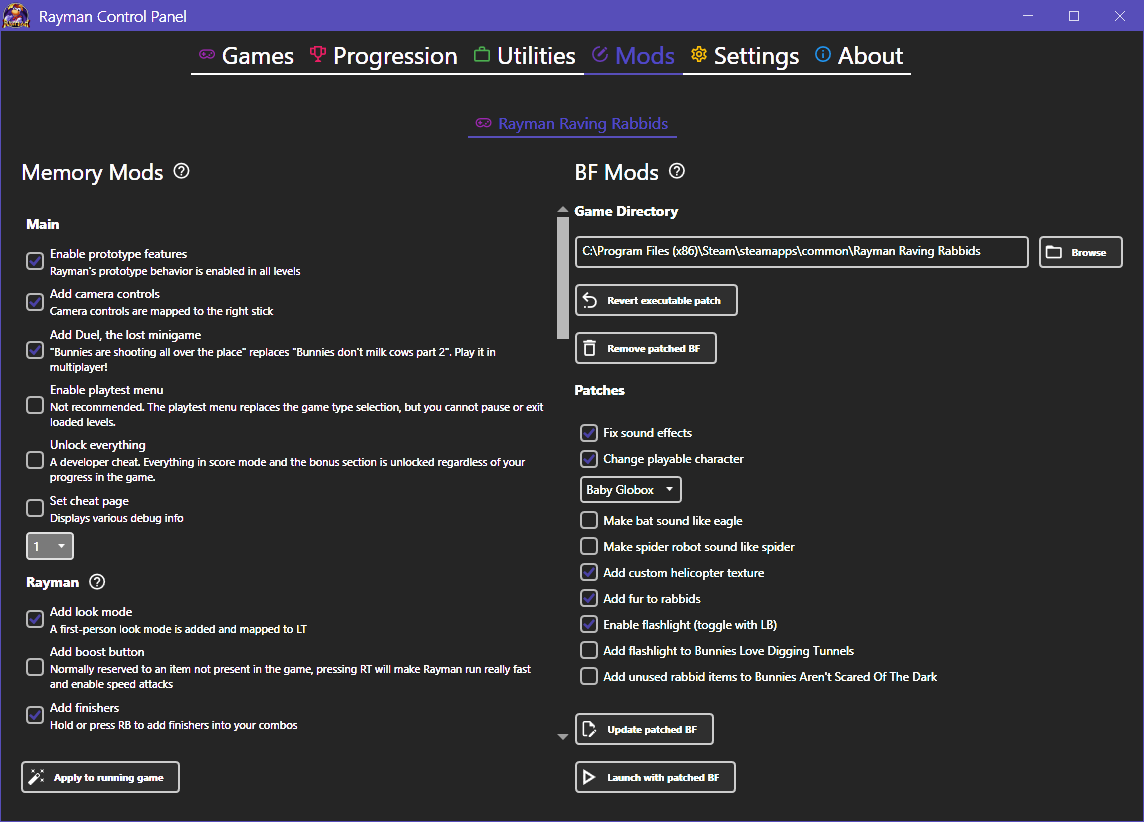
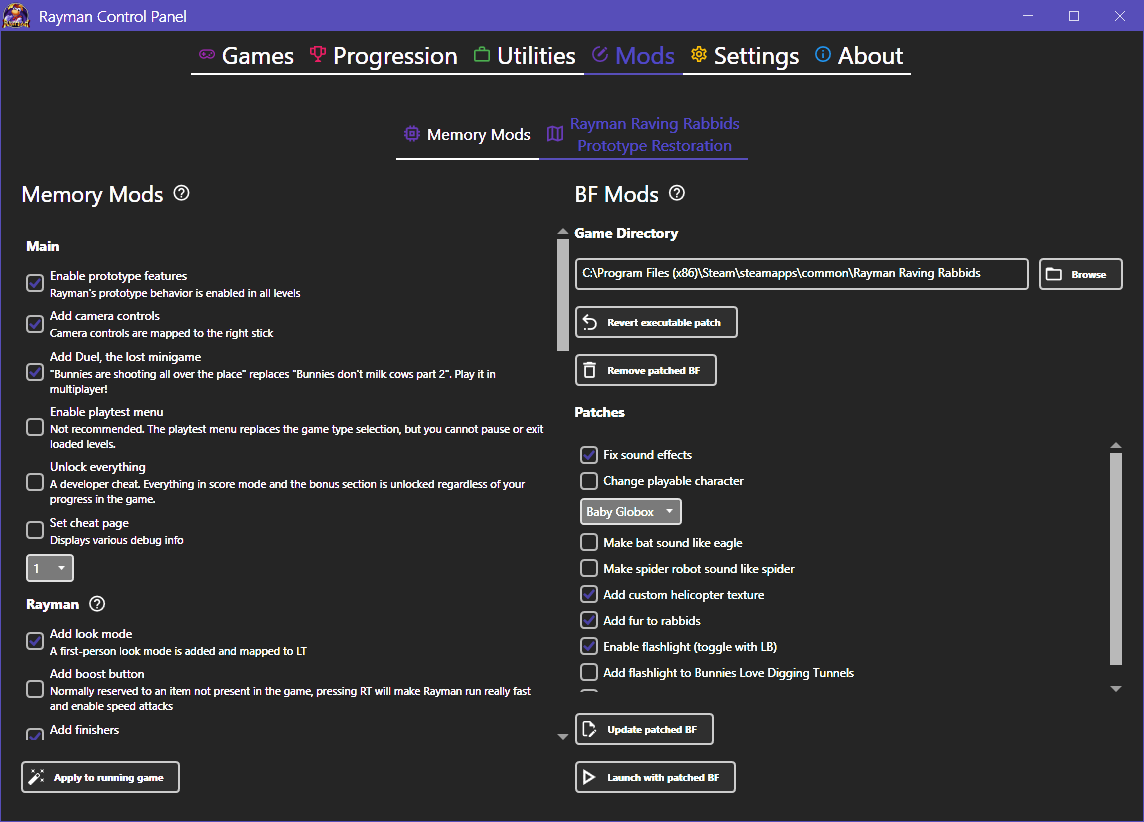
Update readme, add info on patches

Changed region(s): [[0.0, 0.1825, 0.4589, 0.9124], [0.3365, 0.1217, 0.979, 0.8516], [0.9484, 0.5474, 0.979, 0.8212]]

diff --git a/README.md b/README.md
@@ -34,6 +34,11 @@ Each supported game has a configuration page where its settings can be changed. 
 
 Different mods are available throughout the app, such as restoring prototype features in Rayman Raving Rabbids.
 
+## Patches
+![Mods](img/example_patcher_r2.png)
+
+The game patcher tool acts as a mod loader allowing patches with file modifications to be applied to an installed game. These are distributed as .gp files and can be manually added, downloaded through the program or downloaded from [GameBanana](https://gamebanana.com/).
+
 ## Utilities
 ![Mods](img/example_utilities_origins.png)
 
